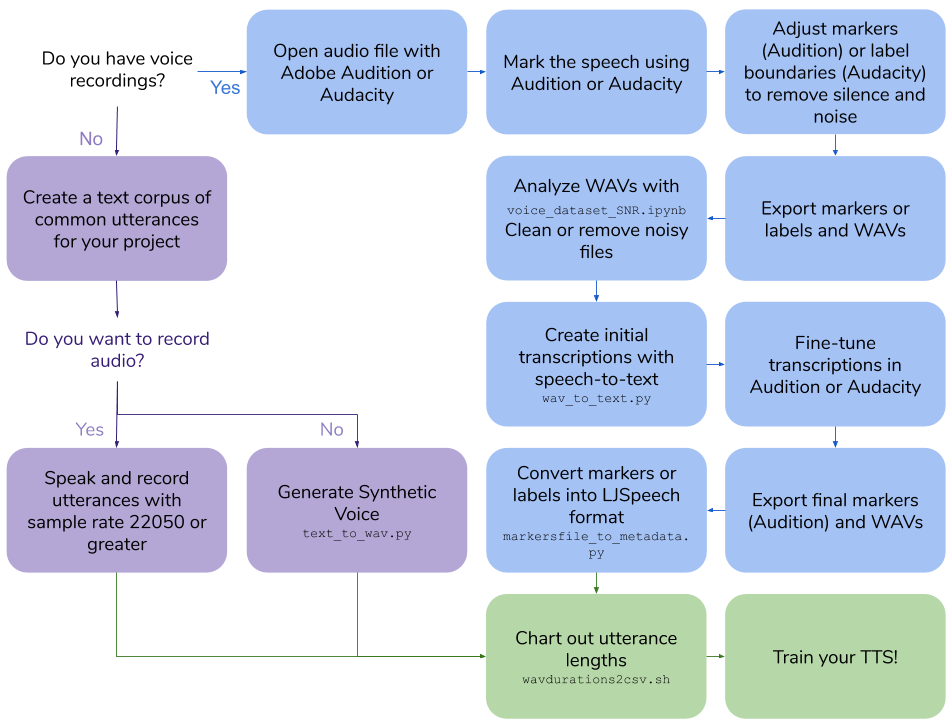
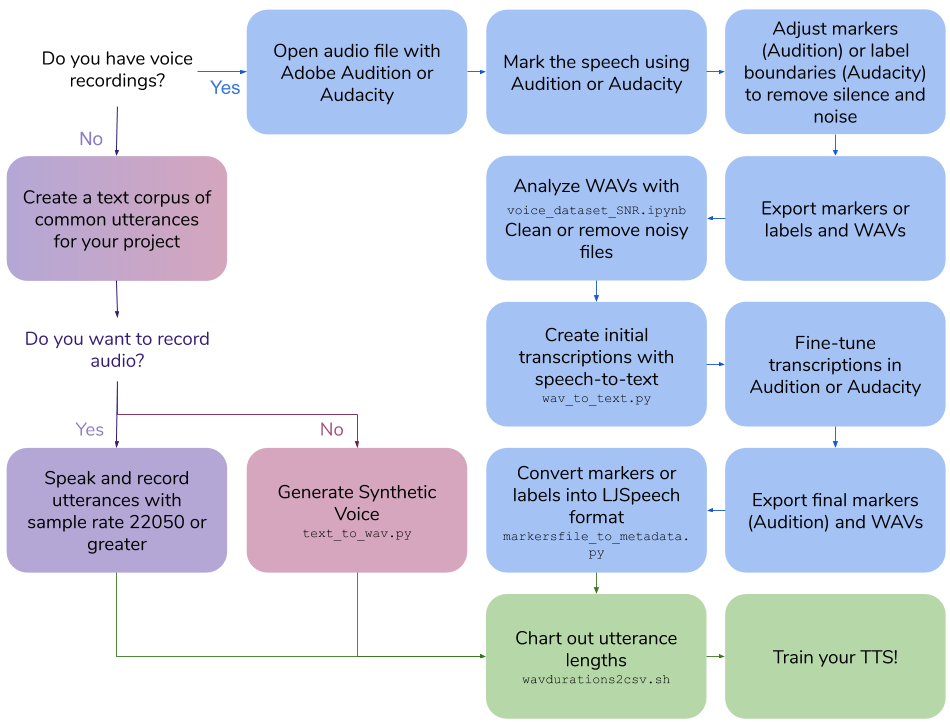
update flowchart; test bluemarker.png in README

Changed region(s): [[0.2442, 0.5781, 0.5189, 0.7911], [0.1832, 0.213, 0.2442, 0.3956]]

diff --git a/README.md b/README.md
@@ -3,7 +3,9 @@ This repo outlines the steps and scripts necessary to create your own text-to-sp
 
 ![Flow Chart](assets/flowchart.png)
 
-## Create Your Own Voice Recordings
+
+
+## ![Blue](assets/purplemarker.png) Create Your Own Voice Recordings
 
 ### Requirements
 * Voice Recording Software
@@ -19,7 +21,7 @@ TODO: Best microphone setup described
 ### Utterance Lengths
 Run `scripts\wavdurations2csv.sh` to chart out utterance length and verify that you have a good distribution of WAV file lengths.
 
-## Create a Synthetic Voice Dataset
+## ![Blue](assets/pinkmarker.png) Create a Synthetic Voice Dataset
 
 ### Requirements
 * Google Cloud Platform Compute Engine Instance
@@ -46,7 +48,7 @@ pip install google-cloud-speech tqdm pandas
 Run `scripts\wavdurations2csv.sh` to chart out utterance length and verify that you have a good distribution of WAV file lengths.
 
 
-## Create Transcriptions for Existing Voice Recordings
+## ![Blue](assets/bluemarker.png) Create Transcriptions for Existing Voice Recordings
 
 ### Requirements
 * Adobe Audition or Audacity
